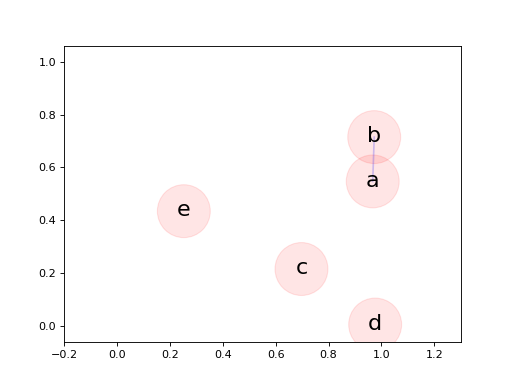
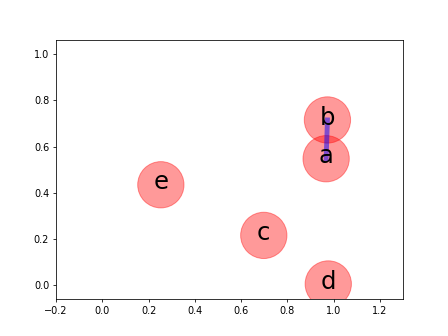
mod:

diff --git a/src/make_tda_animation.py b/src/make_tda_animation.py
@@ -76,22 +76,23 @@ def example(seed):
     x = xy[:,0]
     y = xy[:,1]
     dmat = dist.cdist(xy, xy)
-    r = 0.3
+    r = 0.1
     seq = 'abcde'
     for i in range(nsample):
-        c = plt.Circle((x[i], y[i]), r, color='r', alpha=0.1)
+        c = plt.Circle((x[i], y[i]), r, color='r', alpha=0.4)
         ax.add_artist(c)            
-        plt.text(x[i], y[i]-0.02, seq[i], ha='center', fontsize=20)
         for j in range(i, nsample):        
             if dmat[i, j] / 2 < r:
                 _xy = np.stack((xy[i, :], xy[j, :]))
                 _x = _xy[:, 0]
                 _y = _xy[:, 1]                
-                ax.plot(_x, _y, c='b', alpha=0.2)
+                ax.plot(_x, _y, c='b', alpha=0.5, linewidth=5)
+        plt.text(x[i], y[i]-0.02, seq[i], ha='center', fontsize=25)                
     ax.axis('equal')    
     ax.set_xlim([-0.2, 1.3])
     ax.set_ylim([-0.5, 1.5])
     plt.savefig(f'example_{r}.png')
+    plt.show()
 
 @ex.automain
 def main(datatype):
